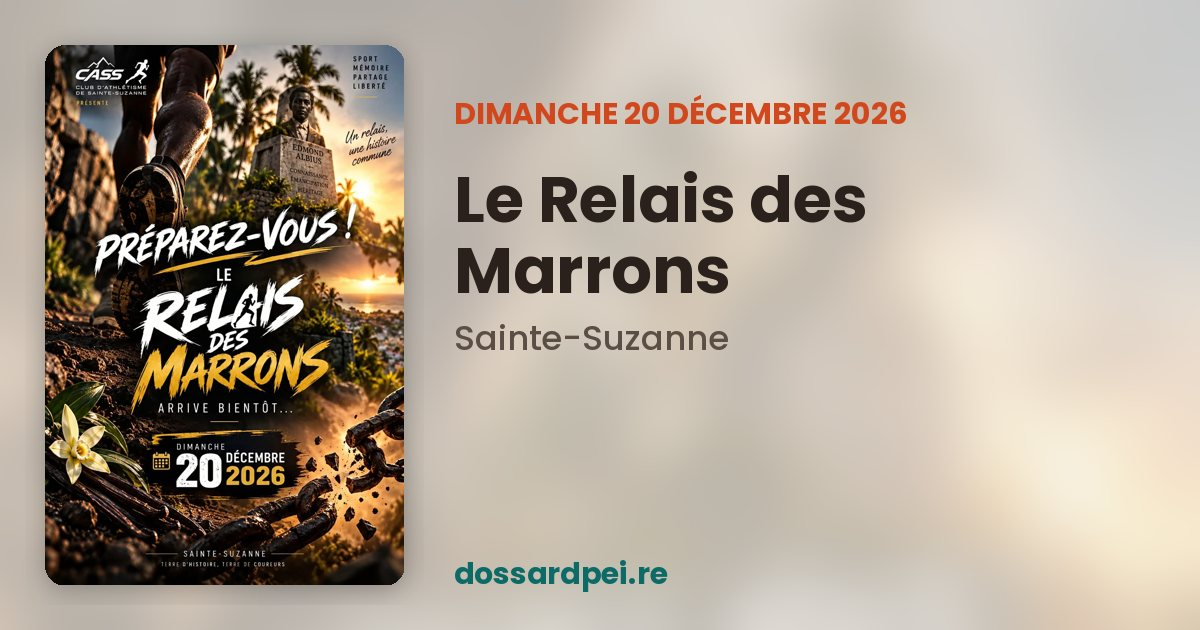
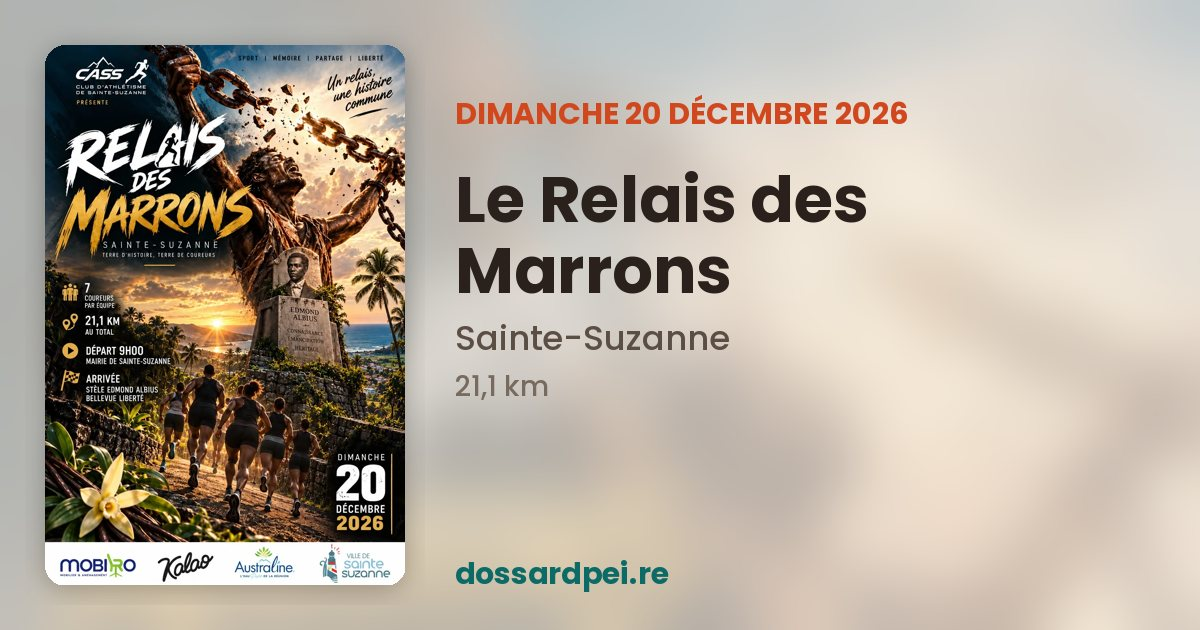
Synchro sources [pages]

diff --git a/course/relais-marrons-2026-12/index.html b/course/relais-marrons-2026-12/index.html
@@ -19,17 +19,17 @@
 <link rel="stylesheet" href="https://fonts.googleapis.com/css2?family=Instrument+Sans:wght@400;500;600;700&family=Saira+Condensed:wght@700&display=swap">
 <link rel="stylesheet" href="assets/app.4e9fba1f68.css">
 
-<title>Le Relais des Marrons 2026 · 20 décembre · Sainte-Suzanne | Dossard Péi</title><meta name="description" content="Le Relais des Marrons : relais le dimanche 20 décembre 2026 à Sainte-Suzanne, La Réunion. Horaires, tarifs, parcours et lien d&#x27;inscription."><link rel="canonical" href="https://dossardpei.re/course/relais-marrons-2026-12/"><meta property="og:type" content="website"><meta property="og:site_name" content="Dossard Péi"><meta property="og:locale" content="fr_FR"><meta property="og:title" content="Le Relais des Marrons · dimanche 20 décembre 2026"><meta property="og:description" content="Le Relais des Marrons : relais le dimanche 20 décembre 2026 à Sainte-Suzanne, La Réunion. Horaires, tarifs, parcours et lien d&#x27;inscription."><meta property="og:url" content="https://dossardpei.re/course/relais-marrons-2026-12/"><meta property="og:image" content="https://dossardpei.re/og/relais-marrons-2026-12.jpg"><meta property="og:image:width" content="1200"><meta property="og:image:height" content="630"><meta name="twitter:card" content="summary_large_image"><script type="application/ld+json">{"@context": "https://schema.org", "@type": "SportsEvent", "name": "Le Relais des Marrons", "startDate": "2026-12-20", "endDate": "2026-12-20", "eventStatus": "https://schema.org/EventScheduled", "eventAttendanceMode": "https://schema.org/OfflineEventAttendanceMode", "sport": "Relais", "url": "https://dossardpei.re/course/relais-marrons-2026-12/", "description": "Le Relais des Marrons : relais le dimanche 20 décembre 2026 à Sainte-Suzanne, La Réunion. Horaires, tarifs, parcours et lien d'inscription.", "location": {"@type": "Place", "name": "Mairie de Sainte-Suzanne", "address": {"@type": "PostalAddress", "addressLocality": "Sainte-Suzanne", "addressRegion": "La Réunion", "addressCountry": "RE"}, "geo": {"@type": "GeoCoordinates", "latitude": -20.906, "longitude": 55.607}}, "image": ["https://dossardpei.re/og/relais-marrons-2026-12.jpg", "https://dossardpei.re/posters/relais-marrons-2026-12_lg.webp"], "organizer": {"@type": "Organization", "name": "Club d'athlétisme de Sainte-Suzanne (CASS)", "url": "https://www.sportpro.re/courses/02196-relais-des-marrons/"}, "offers": {"@type": "Offer", "price": 13.0, "url": "https://www.sportpro.re/courses/02196-relais-des-marrons/", "priceCurrency": "EUR", "availability": "https://schema.org/InStock", "validFrom": "2026-11-03", "validThrough": "2026-12-16"}}</script><script>if(!/^#/.test(location.hash))history.replaceState(null,"",location.pathname+"#c-relais-marrons-2026-12");</script>
+<title>Le Relais des Marrons 2026 · 20 décembre · Sainte-Suzanne | Dossard Péi</title><meta name="description" content="Le Relais des Marrons : relais le dimanche 20 décembre 2026 à Sainte-Suzanne, La Réunion. 21,1 km. Horaires, tarifs, parcours et lien d&#x27;inscription."><link rel="canonical" href="https://dossardpei.re/course/relais-marrons-2026-12/"><meta property="og:type" content="website"><meta property="og:site_name" content="Dossard Péi"><meta property="og:locale" content="fr_FR"><meta property="og:title" content="Le Relais des Marrons · dimanche 20 décembre 2026"><meta property="og:description" content="Le Relais des Marrons : relais le dimanche 20 décembre 2026 à Sainte-Suzanne, La Réunion. 21,1 km. Horaires, tarifs, parcours et lien d&#x27;inscription."><meta property="og:url" content="https://dossardpei.re/course/relais-marrons-2026-12/"><meta property="og:image" content="https://dossardpei.re/og/relais-marrons-2026-12.jpg"><meta property="og:image:width" content="1200"><meta property="og:image:height" content="630"><meta name="twitter:card" content="summary_large_image"><script type="application/ld+json">{"@context": "https://schema.org", "@type": "SportsEvent", "name": "Le Relais des Marrons", "startDate": "2026-12-20", "endDate": "2026-12-20", "eventStatus": "https://schema.org/EventScheduled", "eventAttendanceMode": "https://schema.org/OfflineEventAttendanceMode", "sport": "Relais", "url": "https://dossardpei.re/course/relais-marrons-2026-12/", "description": "Le Relais des Marrons : relais le dimanche 20 décembre 2026 à Sainte-Suzanne, La Réunion. 21,1 km. Horaires, tarifs, parcours et lien d'inscription.", "location": {"@type": "Place", "name": "Mairie de Sainte-Suzanne", "address": {"@type": "PostalAddress", "addressLocality": "Sainte-Suzanne", "addressRegion": "La Réunion", "addressCountry": "RE"}, "geo": {"@type": "GeoCoordinates", "latitude": -20.906, "longitude": 55.607}}, "image": ["https://dossardpei.re/og/relais-marrons-2026-12.jpg", "https://dossardpei.re/posters/relais-marrons-2026-12_lg.webp"], "organizer": {"@type": "Organization", "name": "Club d'athlétisme de Sainte-Suzanne (CASS)", "url": "https://www.sportpro.re/courses/02196-relais-des-marrons/"}, "offers": {"@type": "Offer", "price": 13.0, "url": "https://www.sportpro.re/courses/02196-relais-des-marrons/", "priceCurrency": "EUR", "availability": "https://schema.org/InStock", "validFrom": "2026-11-03", "validThrough": "2026-12-16"}}</script><script>if(!/^#/.test(location.hash))history.replaceState(null,"",location.pathname+"#c-relais-marrons-2026-12");</script>
 <noscript><main><article class="card">
-<div><img class="poster" src="/posters/relais-marrons-2026-12_lg.webp" alt="Affiche : Le Relais des Marrons" width="1100" height="1651"></div>
+<div><img class="poster" src="/posters/relais-marrons-2026-12_lg.webp" alt="Affiche : Le Relais des Marrons" width="1024" height="1536"></div>
 <div>
 <p class="when">dimanche 20 décembre 2026</p>
 <h1>Le Relais des Marrons</h1>
 <p class="where">Sainte-Suzanne · Mairie de Sainte-Suzanne · organisé par Club d&#x27;athlétisme de Sainte-Suzanne (CASS)</p>
-<ul class="tags"><li>Relais</li><li class=st>Inscriptions jusqu&#x27;au 16 décembre</li></ul>
+<ul class="tags"><li>Relais</li><li>21,1 km</li><li class=st>Inscriptions jusqu&#x27;au 16 décembre</li></ul>
 <div class="cta"><a class="btn main" href="https://www.sportpro.re/courses/02196-relais-des-marrons/" rel="noopener" data-goatcounter-click="inscription/relais-marrons-2026-12" data-goatcounter-title="Clic S’inscrire (page course)">S’inscrire</a><a class="btn map" href="/#c-relais-marrons-2026-12">Voir sur la carte →</a></div>
-<div class="tbl"><table><thead><tr><th>Épreuve</th><th>Dist.</th><th>D+</th><th>Type</th><th>Départ</th><th>Tarif</th></tr></thead><tbody><tr><td>Relais des Marrons<div class=note>Équipes de 7 (à partir de minime), 13 € par relayeur, soit 91 € par équipe. Arrivée à la stèle Edmond Albius. Dossards le jour même, de 6h30 à 8h00, à la mairie de Sainte-Suzanne.</div></td><td class=n>–</td><td class=n>–</td><td>Relais</td><td class=n>09h00</td><td>13 €</td></tr></tbody></table></div>
-<p class="src">Informations reprises des sources officielles, à vérifier auprès de l’organisateur avant de vous inscrire. · <a href="https://www.sportpro.re/courses/02196-relais-des-marrons/" rel="noopener">Fiche source</a> · <a href="/#contact-relais-marrons-2026-12">Signaler une erreur</a></p>
+<div class="tbl"><table><thead><tr><th>Épreuve</th><th>Dist.</th><th>D+</th><th>Type</th><th>Départ</th><th>Tarif</th></tr></thead><tbody><tr><td>Relais des Marrons<div class=note>Équipes de 7 (à partir de minime), 13 € par relayeur, soit 91 € par équipe. Arrivée à la stèle Edmond Albius. Dossards le jour même, de 6h30 à 8h00, à la mairie de Sainte-Suzanne.</div></td><td class=n>21,1 km</td><td class=n>–</td><td>Relais</td><td class=n>09h00</td><td>13 €</td></tr></tbody></table></div>
+<p class="src">Informations reprises des sources officielles, à vérifier auprès de l’organisateur avant de vous inscrire. · <a href="https://www.sportpro.re/courses/02196-relais-des-marrons/" rel="noopener">Fiche source</a> · <a href="https://www.sportpro.re/res/images/Affiches/relais_marrons_affiche_2026.jpeg" rel="noopener">Affiche</a> · <a href="/#contact-relais-marrons-2026-12">Signaler une erreur</a></p>
 </div></article><div class="rels"><section class="rel"><h2>Le même week-end</h2><ul><li><a href="/course/foulees-verval-2026-12/"><b>Les Foulées du Verval</b><span>19 décembre · Saint-Louis · 10 km</span></a></li><li><a href="/course/pace/"><b>The Pace of Mountain</b><span>19 décembre · Salazie · 71 km (3900 m D+), 70 km (3165 m D+), 37 km (1900 m D+)</span></a></li><li><a href="/course/trail-urbain-letchis-2026-12/"><b>Trail Urbain des Letchis</b><span>19 décembre · Saint-Benoît · 14 km (132 m D+)</span></a></li><li><a href="/course/trophee-champions-route-finale-2026-12/"><b>Trophée des champions sur route – Finale</b><span>19 décembre · Sainte-Marie · 15 km (115 m D+), 10 km (71 m D+), 5 km (36 m D+)</span></a></li><li><a href="/course/charrette/"><b>Trail Charrette</b><span>20 décembre · Saint-Paul · 22 km (850 m D+), 15 km (850 m D+), 15 km (200 m D+)</span></a></li><li><a href="/course/foulees-cite-volcan-2026-12/"><b>Les Foulées de la Cité du Volcan</b><span>20 décembre · Le Tampon · 10 km</span></a></li></ul></section><section class="rel"><h2>Aussi à Sainte-Suzanne</h2><ul><li><a href="/course/niagara/"><b>Foulées Nature Niagara</b><span>29 novembre · Sainte-Suzanne · 25 km</span></a></li></ul></section></div></main></noscript>
 <div class="wrap">
   <header class="top" id="topbar">

diff --git a/course/charrette/index.html b/course/charrette/index.html
@@ -30,7 +30,7 @@
 <div class="cta"><a class="btn main" href="https://www.sportpro.re/courses/02167-trail-charrette-/" rel="noopener" data-goatcounter-click="inscription/charrette" data-goatcounter-title="Clic S’inscrire (page course)">S’inscrire</a><a class="btn map" href="/#c-charrette">Carte et parcours →</a></div>
 <div class="tbl"><table><thead><tr><th>Épreuve</th><th>Dist.</th><th>D+</th><th>Type</th><th>Départ</th><th>Tarif</th></tr></thead><tbody><tr><td>Trail Charrette</td><td class=n>22 km</td><td class=n>850 m</td><td>Trail XS</td><td class=n>06h00</td><td>30 €</td></tr><tr><td>Cadets et juniors</td><td class=n>15 km</td><td class=n>850 m</td><td>Trail XXS</td><td class=n>06h30</td><td>25 €</td></tr><tr><td>Rando Charrette</td><td class=n>15 km</td><td class=n>200 m</td><td>Rando / marche</td><td class=n>06h30</td><td>25 €</td></tr><tr><td>Course Marmays 2012-2022</td><td class=n>–</td><td class=n>–</td><td>Jeunes</td><td class=n>09h30</td><td>Gratuit</td></tr></tbody></table></div>
 <p class="src">Informations reprises des sources officielles, à vérifier auprès de l’organisateur avant de vous inscrire. · <a href="https://www.sportpro.re/courses/02167-trail-charrette-/" rel="noopener">Fiche source</a> · <a href="https://www.sportpro.re/res/.thumbs/images/Affiches/Trail_Charrette_Affiche_2026.650.jpeg" rel="noopener">Affiche</a> · <a href="/#contact-charrette">Signaler une erreur</a></p>
-</div></article><div class="rels"><section class="rel"><h2>Le même week-end</h2><ul><li><a href="/course/foulees-verval-2026-12/"><b>Les Foulées du Verval</b><span>19 décembre · Saint-Louis · 10 km</span></a></li><li><a href="/course/pace/"><b>The Pace of Mountain</b><span>19 décembre · Salazie · 71 km (3900 m D+), 70 km (3165 m D+), 37 km (1900 m D+)</span></a></li><li><a href="/course/trail-urbain-letchis-2026-12/"><b>Trail Urbain des Letchis</b><span>19 décembre · Saint-Benoît · 14 km (132 m D+)</span></a></li><li><a href="/course/trophee-champions-route-finale-2026-12/"><b>Trophée des champions sur route – Finale</b><span>19 décembre · Sainte-Marie · 15 km (115 m D+), 10 km (71 m D+), 5 km (36 m D+)</span></a></li><li><a href="/course/foulees-cite-volcan-2026-12/"><b>Les Foulées de la Cité du Volcan</b><span>20 décembre · Le Tampon · 10 km</span></a></li><li><a href="/course/relais-marrons-2026-12/"><b>Le Relais des Marrons</b><span>20 décembre · Sainte-Suzanne</span></a></li></ul></section><section class="rel"><h2>Aussi à Saint-Paul</h2><ul><li><a href="/course/tropica-dingue-2026-11/"><b>Tropica&#x27;Dingue</b><span>21 novembre · Saint-Paul · 8 km</span></a></li><li><a href="/course/villele/"><b>Trail de Villèle</b><span>29 novembre · Saint-Paul · 25 km (750 m D+), 10 km</span></a></li><li><a href="/course/ti-bwa/"><b>Kours Ti Bwa</b><span>6 décembre · Saint-Paul · 12 km (286 m D+), 6 km</span></a></li><li><a href="/course/relais-trail-vieux-saint-paul-2026-12/"><b>Relais Trail le Vieux Saint-Paul</b><span>13 décembre · Saint-Paul · 18,5 km (1000 m D+)</span></a></li><li><a href="/course/eden-rox-challenge-2027-03/"><b>Eden Rox Challenge</b><span>20 mars · Saint-Paul · 8 km, 4 km</span></a></li><li><a href="/course/gto-2027-07/"><b>Grand Trail de l&#x27;Ouest (GTO)</b><span>2 juillet · Saint-Paul · 85 km (4000 m D+), 50 km (1900 m D+), 20 km (800 m D+)</span></a></li></ul></section></div></main></noscript>
+</div></article><div class="rels"><section class="rel"><h2>Le même week-end</h2><ul><li><a href="/course/foulees-verval-2026-12/"><b>Les Foulées du Verval</b><span>19 décembre · Saint-Louis · 10 km</span></a></li><li><a href="/course/pace/"><b>The Pace of Mountain</b><span>19 décembre · Salazie · 71 km (3900 m D+), 70 km (3165 m D+), 37 km (1900 m D+)</span></a></li><li><a href="/course/trail-urbain-letchis-2026-12/"><b>Trail Urbain des Letchis</b><span>19 décembre · Saint-Benoît · 14 km (132 m D+)</span></a></li><li><a href="/course/trophee-champions-route-finale-2026-12/"><b>Trophée des champions sur route – Finale</b><span>19 décembre · Sainte-Marie · 15 km (115 m D+), 10 km (71 m D+), 5 km (36 m D+)</span></a></li><li><a href="/course/foulees-cite-volcan-2026-12/"><b>Les Foulées de la Cité du Volcan</b><span>20 décembre · Le Tampon · 10 km</span></a></li><li><a href="/course/relais-marrons-2026-12/"><b>Le Relais des Marrons</b><span>20 décembre · Sainte-Suzanne · 21,1 km</span></a></li></ul></section><section class="rel"><h2>Aussi à Saint-Paul</h2><ul><li><a href="/course/tropica-dingue-2026-11/"><b>Tropica&#x27;Dingue</b><span>21 novembre · Saint-Paul · 8 km</span></a></li><li><a href="/course/villele/"><b>Trail de Villèle</b><span>29 novembre · Saint-Paul · 25 km (750 m D+), 10 km</span></a></li><li><a href="/course/ti-bwa/"><b>Kours Ti Bwa</b><span>6 décembre · Saint-Paul · 12 km (286 m D+), 6 km</span></a></li><li><a href="/course/relais-trail-vieux-saint-paul-2026-12/"><b>Relais Trail le Vieux Saint-Paul</b><span>13 décembre · Saint-Paul · 18,5 km (1000 m D+)</span></a></li><li><a href="/course/eden-rox-challenge-2027-03/"><b>Eden Rox Challenge</b><span>20 mars · Saint-Paul · 8 km, 4 km</span></a></li><li><a href="/course/gto-2027-07/"><b>Grand Trail de l&#x27;Ouest (GTO)</b><span>2 juillet · Saint-Paul · 85 km (4000 m D+), 50 km (1900 m D+), 20 km (800 m D+)</span></a></li></ul></section></div></main></noscript>
 <div class="wrap">
   <header class="top" id="topbar">
     <a class="brand" href="#" id="minibrand" aria-label="Dossard Péi, accueil"><svg class="logo" viewBox="0 0 64 64" role="img" aria-label="Logo Dossard Péi : dossard 974"><g transform="rotate(-6 32 32)"><rect x="5" y="10" width="54" height="44" rx="6" fill="#fff" stroke="#1d2523" stroke-width="3"/><path d="M6.5 22V16a4.5 4.5 0 0 1 4.5-4.5h42a4.5 4.5 0 0 1 4.5 4.5v6z" fill="#1d4f9c"/><g fill="#ffd400"><path d="M32 17 9.5 11.5h5zM32 17 21.6 11.5h4zM32 17 30.2 11.5h3.6zM32 17 38.4 11.5h4zM32 17 49.5 11.5h5z"/></g><path d="M24 22h16L32 16z" fill="#e3242b"/><circle cx="11.5" cy="27" r="2" fill="#1d2523"/><circle cx="52.5" cy="27" r="2" fill="#1d2523"/><circle cx="11.5" cy="48.5" r="2" fill="#1d2523"/><circle cx="52.5" cy="48.5" r="2" fill="#1d2523"/><text x="32" y="47.5" text-anchor="middle" font-family="Arial Narrow,Arial,sans-serif" font-weight="800" font-size="22" fill="#1d2523" letter-spacing="-.5">974</text></g></svg><span class="bname">Dossard Péi</span></a>

diff --git a/course/trail-urbain-letchis-2026-12/index.html b/course/trail-urbain-letchis-2026-12/index.html
@@ -30,7 +30,7 @@
 <div class="cta"><a class="btn main" href="https://www.sportpro.re/courses/02186-trail-urbain-des-letchis/" rel="noopener" data-goatcounter-click="inscription/trail-urbain-letchis-2026-12" data-goatcounter-title="Clic S’inscrire (page course)">S’inscrire</a><a class="btn map" href="/#c-trail-urbain-letchis-2026-12">Carte et parcours →</a></div>
 <div class="tbl"><table><thead><tr><th>Épreuve</th><th>Dist.</th><th>D+</th><th>Type</th><th>Départ</th><th>Tarif</th></tr></thead><tbody><tr><td>14 km<div class=note>À partir de la catégorie Cadet (2011 et avant) ; D+ mesuré sur le tracé de l&#x27;organisateur</div></td><td class=n>14 km</td><td class=n>132 m</td><td>Trail urbain</td><td class=n>16h00</td><td>20 €</td></tr></tbody></table></div>
 <p class="src">Informations reprises des sources officielles, à vérifier auprès de l’organisateur avant de vous inscrire. · <a href="https://www.sportpro.re/courses/02186-trail-urbain-des-letchis/" rel="noopener">Fiche source</a> · <a href="https://www.sportpro.re/res/images/Affiches/Trail_Urbain_Des_letchis_Affiche_2026_v2.jpeg" rel="noopener">Affiche</a> · <a href="/#contact-trail-urbain-letchis-2026-12">Signaler une erreur</a></p>
-</div></article><div class="rels"><section class="rel"><h2>Le même week-end</h2><ul><li><a href="/course/foulees-verval-2026-12/"><b>Les Foulées du Verval</b><span>19 décembre · Saint-Louis · 10 km</span></a></li><li><a href="/course/pace/"><b>The Pace of Mountain</b><span>19 décembre · Salazie · 71 km (3900 m D+), 70 km (3165 m D+), 37 km (1900 m D+)</span></a></li><li><a href="/course/trophee-champions-route-finale-2026-12/"><b>Trophée des champions sur route – Finale</b><span>19 décembre · Sainte-Marie · 15 km (115 m D+), 10 km (71 m D+), 5 km (36 m D+)</span></a></li><li><a href="/course/charrette/"><b>Trail Charrette</b><span>20 décembre · Saint-Paul · 22 km (850 m D+), 15 km (850 m D+), 15 km (200 m D+)</span></a></li><li><a href="/course/foulees-cite-volcan-2026-12/"><b>Les Foulées de la Cité du Volcan</b><span>20 décembre · Le Tampon · 10 km</span></a></li><li><a href="/course/relais-marrons-2026-12/"><b>Le Relais des Marrons</b><span>20 décembre · Sainte-Suzanne</span></a></li></ul></section><section class="rel"><h2>Aussi à Saint-Benoît</h2><ul><li><a href="/course/marathon-relais-sb/"><b>Marathon Relais de Saint-Benoît</b><span>11 novembre · Saint-Benoît · 42,2 km</span></a></li><li><a href="/course/course-inclusive-maladies-rares-2026-11/"><b>Course inclusive des maladies rares</b><span>29 novembre · Saint-Benoît · 3 km</span></a></li><li><a href="/course/christmas-run/"><b>Christmas Run</b><span>12 décembre · Saint-Benoît · 5 km</span></a></li><li><a href="/course/sainte-anne/"><b>Trail Nature Sainte-Anne</b><span>13 décembre · Saint-Benoît · 24 km (490 m D+), 12 km, 12 km (245 m D+), 9 km</span></a></li><li><a href="/course/cfg/"><b>Les Foulées du CFG</b><span>30 janvier · Saint-Benoît · 10 km</span></a></li></ul></section></div></main></noscript>
+</div></article><div class="rels"><section class="rel"><h2>Le même week-end</h2><ul><li><a href="/course/foulees-verval-2026-12/"><b>Les Foulées du Verval</b><span>19 décembre · Saint-Louis · 10 km</span></a></li><li><a href="/course/pace/"><b>The Pace of Mountain</b><span>19 décembre · Salazie · 71 km (3900 m D+), 70 km (3165 m D+), 37 km (1900 m D+)</span></a></li><li><a href="/course/trophee-champions-route-finale-2026-12/"><b>Trophée des champions sur route – Finale</b><span>19 décembre · Sainte-Marie · 15 km (115 m D+), 10 km (71 m D+), 5 km (36 m D+)</span></a></li><li><a href="/course/charrette/"><b>Trail Charrette</b><span>20 décembre · Saint-Paul · 22 km (850 m D+), 15 km (850 m D+), 15 km (200 m D+)</span></a></li><li><a href="/course/foulees-cite-volcan-2026-12/"><b>Les Foulées de la Cité du Volcan</b><span>20 décembre · Le Tampon · 10 km</span></a></li><li><a href="/course/relais-marrons-2026-12/"><b>Le Relais des Marrons</b><span>20 décembre · Sainte-Suzanne · 21,1 km</span></a></li></ul></section><section class="rel"><h2>Aussi à Saint-Benoît</h2><ul><li><a href="/course/marathon-relais-sb/"><b>Marathon Relais de Saint-Benoît</b><span>11 novembre · Saint-Benoît · 42,2 km</span></a></li><li><a href="/course/course-inclusive-maladies-rares-2026-11/"><b>Course inclusive des maladies rares</b><span>29 novembre · Saint-Benoît · 3 km</span></a></li><li><a href="/course/christmas-run/"><b>Christmas Run</b><span>12 décembre · Saint-Benoît · 5 km</span></a></li><li><a href="/course/sainte-anne/"><b>Trail Nature Sainte-Anne</b><span>13 décembre · Saint-Benoît · 24 km (490 m D+), 12 km, 12 km (245 m D+), 9 km</span></a></li><li><a href="/course/cfg/"><b>Les Foulées du CFG</b><span>30 janvier · Saint-Benoît · 10 km</span></a></li></ul></section></div></main></noscript>
 <div class="wrap">
   <header class="top" id="topbar">
     <a class="brand" href="#" id="minibrand" aria-label="Dossard Péi, accueil"><svg class="logo" viewBox="0 0 64 64" role="img" aria-label="Logo Dossard Péi : dossard 974"><g transform="rotate(-6 32 32)"><rect x="5" y="10" width="54" height="44" rx="6" fill="#fff" stroke="#1d2523" stroke-width="3"/><path d="M6.5 22V16a4.5 4.5 0 0 1 4.5-4.5h42a4.5 4.5 0 0 1 4.5 4.5v6z" fill="#1d4f9c"/><g fill="#ffd400"><path d="M32 17 9.5 11.5h5zM32 17 21.6 11.5h4zM32 17 30.2 11.5h3.6zM32 17 38.4 11.5h4zM32 17 49.5 11.5h5z"/></g><path d="M24 22h16L32 16z" fill="#e3242b"/><circle cx="11.5" cy="27" r="2" fill="#1d2523"/><circle cx="52.5" cy="27" r="2" fill="#1d2523"/><circle cx="11.5" cy="48.5" r="2" fill="#1d2523"/><circle cx="52.5" cy="48.5" r="2" fill="#1d2523"/><text x="32" y="47.5" text-anchor="middle" font-family="Arial Narrow,Arial,sans-serif" font-weight="800" font-size="22" fill="#1d2523" letter-spacing="-.5">974</text></g></svg><span class="bname">Dossard Péi</span></a>

diff --git a/course/foulees-cite-volcan-2026-12/index.html b/course/foulees-cite-volcan-2026-12/index.html
@@ -30,7 +30,7 @@
 <div class="cta"><a class="btn main" href="https://in.njuko.com/les-foulees-de-la-cite-du-volcan1786614431476" rel="noopener" data-goatcounter-click="inscription/foulees-cite-volcan-2026-12" data-goatcounter-title="Clic S’inscrire (page course)">S’inscrire</a><a class="btn map" href="/#c-foulees-cite-volcan-2026-12">Carte et parcours →</a></div>
 <div class="tbl"><table><thead><tr><th>Épreuve</th><th>Dist.</th><th>D+</th><th>Type</th><th>Départ</th><th>Tarif</th></tr></thead><tbody><tr><td>Course</td><td class=n>10 km</td><td class=n>–</td><td>Route</td><td class=n>09h00</td><td>20 €</td></tr></tbody></table></div>
 <p class="src">Informations reprises des sources officielles, à vérifier auprès de l’organisateur avant de vous inscrire. · <a href="https://chronorun974.re/les-foulees-de-la-cite-du-volcan/" rel="noopener">Fiche source</a> · <a href="http://www.aajm.re" rel="noopener">Site de la course</a> · <a href="https://werun.world/wp-content/uploads/2026/07/Affiche-Foulees-de-la-Cite-du-Volcan-2026.jpg" rel="noopener">Affiche</a> · <a href="/#contact-foulees-cite-volcan-2026-12">Signaler une erreur</a></p>
-</div></article><div class="rels"><section class="rel"><h2>Le même week-end</h2><ul><li><a href="/course/foulees-verval-2026-12/"><b>Les Foulées du Verval</b><span>19 décembre · Saint-Louis · 10 km</span></a></li><li><a href="/course/pace/"><b>The Pace of Mountain</b><span>19 décembre · Salazie · 71 km (3900 m D+), 70 km (3165 m D+), 37 km (1900 m D+)</span></a></li><li><a href="/course/trail-urbain-letchis-2026-12/"><b>Trail Urbain des Letchis</b><span>19 décembre · Saint-Benoît · 14 km (132 m D+)</span></a></li><li><a href="/course/trophee-champions-route-finale-2026-12/"><b>Trophée des champions sur route – Finale</b><span>19 décembre · Sainte-Marie · 15 km (115 m D+), 10 km (71 m D+), 5 km (36 m D+)</span></a></li><li><a href="/course/charrette/"><b>Trail Charrette</b><span>20 décembre · Saint-Paul · 22 km (850 m D+), 15 km (850 m D+), 15 km (200 m D+)</span></a></li><li><a href="/course/relais-marrons-2026-12/"><b>Le Relais des Marrons</b><span>20 décembre · Sainte-Suzanne</span></a></li></ul></section><section class="rel"><h2>Aussi à Le Tampon</h2><ul><li><a href="/course/route-lait/"><b>La Route du Lait</b><span>7 novembre · Le Tampon · 10 km</span></a></li><li><a href="/course/championnat-trail-trans-volcano-2027-01/"><b>Trails du Volcan : Tangue et Transvolcano</b><span>23 janvier · Le Tampon · 67 km (1850 m D+), 40 km (1240 m D+), 22 km (800 m D+)</span></a></li><li><a href="/course/volcarox-2027-01/"><b>VolcaroX</b><span>30 janvier · Le Tampon · 8 km, 4 km</span></a></li><li><a href="/course/trail-grand-bassin-2027-06/"><b>Trail Grand Bassin Mollaret</b><span>19 juin · Le Tampon · 22 km (1170 m D+), 10 km (750 m D+)</span></a></li></ul></section></div></main></noscript>
+</div></article><div class="rels"><section class="rel"><h2>Le même week-end</h2><ul><li><a href="/course/foulees-verval-2026-12/"><b>Les Foulées du Verval</b><span>19 décembre · Saint-Louis · 10 km</span></a></li><li><a href="/course/pace/"><b>The Pace of Mountain</b><span>19 décembre · Salazie · 71 km (3900 m D+), 70 km (3165 m D+), 37 km (1900 m D+)</span></a></li><li><a href="/course/trail-urbain-letchis-2026-12/"><b>Trail Urbain des Letchis</b><span>19 décembre · Saint-Benoît · 14 km (132 m D+)</span></a></li><li><a href="/course/trophee-champions-route-finale-2026-12/"><b>Trophée des champions sur route – Finale</b><span>19 décembre · Sainte-Marie · 15 km (115 m D+), 10 km (71 m D+), 5 km (36 m D+)</span></a></li><li><a href="/course/charrette/"><b>Trail Charrette</b><span>20 décembre · Saint-Paul · 22 km (850 m D+), 15 km (850 m D+), 15 km (200 m D+)</span></a></li><li><a href="/course/relais-marrons-2026-12/"><b>Le Relais des Marrons</b><span>20 décembre · Sainte-Suzanne · 21,1 km</span></a></li></ul></section><section class="rel"><h2>Aussi à Le Tampon</h2><ul><li><a href="/course/route-lait/"><b>La Route du Lait</b><span>7 novembre · Le Tampon · 10 km</span></a></li><li><a href="/course/championnat-trail-trans-volcano-2027-01/"><b>Trails du Volcan : Tangue et Transvolcano</b><span>23 janvier · Le Tampon · 67 km (1850 m D+), 40 km (1240 m D+), 22 km (800 m D+)</span></a></li><li><a href="/course/volcarox-2027-01/"><b>VolcaroX</b><span>30 janvier · Le Tampon · 8 km, 4 km</span></a></li><li><a href="/course/trail-grand-bassin-2027-06/"><b>Trail Grand Bassin Mollaret</b><span>19 juin · Le Tampon · 22 km (1170 m D+), 10 km (750 m D+)</span></a></li></ul></section></div></main></noscript>
 <div class="wrap">
   <header class="top" id="topbar">
     <a class="brand" href="#" id="minibrand" aria-label="Dossard Péi, accueil"><svg class="logo" viewBox="0 0 64 64" role="img" aria-label="Logo Dossard Péi : dossard 974"><g transform="rotate(-6 32 32)"><rect x="5" y="10" width="54" height="44" rx="6" fill="#fff" stroke="#1d2523" stroke-width="3"/><path d="M6.5 22V16a4.5 4.5 0 0 1 4.5-4.5h42a4.5 4.5 0 0 1 4.5 4.5v6z" fill="#1d4f9c"/><g fill="#ffd400"><path d="M32 17 9.5 11.5h5zM32 17 21.6 11.5h4zM32 17 30.2 11.5h3.6zM32 17 38.4 11.5h4zM32 17 49.5 11.5h5z"/></g><path d="M24 22h16L32 16z" fill="#e3242b"/><circle cx="11.5" cy="27" r="2" fill="#1d2523"/><circle cx="52.5" cy="27" r="2" fill="#1d2523"/><circle cx="11.5" cy="48.5" r="2" fill="#1d2523"/><circle cx="52.5" cy="48.5" r="2" fill="#1d2523"/><text x="32" y="47.5" text-anchor="middle" font-family="Arial Narrow,Arial,sans-serif" font-weight="800" font-size="22" fill="#1d2523" letter-spacing="-.5">974</text></g></svg><span class="bname">Dossard Péi</span></a>

diff --git a/course/pace/index.html b/course/pace/index.html
@@ -30,7 +30,7 @@
 <div class="cta"><a class="btn main" href="https://www.sportpro.re/courses/02113-the-pace-of-mountain-/" rel="noopener" data-goatcounter-click="inscription/pace" data-goatcounter-title="Clic S’inscrire (page course)">S’inscrire</a><a class="btn map" href="/#c-pace">Carte et parcours →</a></div>
 <div class="tbl"><table><thead><tr><th>Épreuve</th><th>Dist.</th><th>D+</th><th>Type</th><th>Départ</th><th>Tarif</th></tr></thead><tbody><tr><td>Solo 70 km<div class=note>Départ Sainte-Marie</div></td><td class=n>71 km</td><td class=n>3900 m</td><td>Trail M</td><td class=n>00h01</td><td>80 €</td></tr><tr><td>Relais 70 km</td><td class=n>70 km</td><td class=n>3165 m</td><td>Trail M</td><td class=n>03h00</td><td>55 €</td></tr><tr><td>Semi 36 km</td><td class=n>37 km</td><td class=n>1900 m</td><td>Trail S</td><td class=n>03h00</td><td>60 €</td></tr></tbody></table></div>
 <p class="src">Informations reprises des sources officielles, à vérifier auprès de l’organisateur avant de vous inscrire. · <a href="https://www.sportpro.re/courses/02113-the-pace-of-mountain-/" rel="noopener">Fiche source</a> · <a href="https://www.sportpro.re/res/.thumbs/images/Affiches/The_pace_of_the_mountain_Affiche.650.png" rel="noopener">Affiche</a> · <a href="/#contact-pace">Signaler une erreur</a></p>
-</div></article><div class="rels"><section class="rel"><h2>Le même week-end</h2><ul><li><a href="/course/foulees-verval-2026-12/"><b>Les Foulées du Verval</b><span>19 décembre · Saint-Louis · 10 km</span></a></li><li><a href="/course/trail-urbain-letchis-2026-12/"><b>Trail Urbain des Letchis</b><span>19 décembre · Saint-Benoît · 14 km (132 m D+)</span></a></li><li><a href="/course/trophee-champions-route-finale-2026-12/"><b>Trophée des champions sur route – Finale</b><span>19 décembre · Sainte-Marie · 15 km (115 m D+), 10 km (71 m D+), 5 km (36 m D+)</span></a></li><li><a href="/course/charrette/"><b>Trail Charrette</b><span>20 décembre · Saint-Paul · 22 km (850 m D+), 15 km (850 m D+), 15 km (200 m D+)</span></a></li><li><a href="/course/foulees-cite-volcan-2026-12/"><b>Les Foulées de la Cité du Volcan</b><span>20 décembre · Le Tampon · 10 km</span></a></li><li><a href="/course/relais-marrons-2026-12/"><b>Le Relais des Marrons</b><span>20 décembre · Sainte-Suzanne</span></a></li></ul></section><section class="rel"><h2>Aussi à Salazie</h2><ul><li><a href="/course/mafate-trail-tour-2026-11/"><b>Mafate Trail Tour (MTT)</b><span>28 novembre · Salazie · 70 km (4800 m D+), 54 km (3600 m D+), 38 km (2100 m D+)</span></a></li><li><a href="/course/boucle-c-ur-est-2026-12/"><b>Boucle du Cœur de l&#x27;Est</b><span>5 décembre · Salazie · 65 km (3630 m D+), 45 km (2300 m D+)</span></a></li><li><a href="/course/maloya/"><b>Maloya Trail</b><span>12 décembre · Salazie · 12 km (556 m D+), 8 km, 2,2 km (49 m D+), 1,6 km (26 m D+)</span></a></li></ul></section></div></main></noscript>
+</div></article><div class="rels"><section class="rel"><h2>Le même week-end</h2><ul><li><a href="/course/foulees-verval-2026-12/"><b>Les Foulées du Verval</b><span>19 décembre · Saint-Louis · 10 km</span></a></li><li><a href="/course/trail-urbain-letchis-2026-12/"><b>Trail Urbain des Letchis</b><span>19 décembre · Saint-Benoît · 14 km (132 m D+)</span></a></li><li><a href="/course/trophee-champions-route-finale-2026-12/"><b>Trophée des champions sur route – Finale</b><span>19 décembre · Sainte-Marie · 15 km (115 m D+), 10 km (71 m D+), 5 km (36 m D+)</span></a></li><li><a href="/course/charrette/"><b>Trail Charrette</b><span>20 décembre · Saint-Paul · 22 km (850 m D+), 15 km (850 m D+), 15 km (200 m D+)</span></a></li><li><a href="/course/foulees-cite-volcan-2026-12/"><b>Les Foulées de la Cité du Volcan</b><span>20 décembre · Le Tampon · 10 km</span></a></li><li><a href="/course/relais-marrons-2026-12/"><b>Le Relais des Marrons</b><span>20 décembre · Sainte-Suzanne · 21,1 km</span></a></li></ul></section><section class="rel"><h2>Aussi à Salazie</h2><ul><li><a href="/course/mafate-trail-tour-2026-11/"><b>Mafate Trail Tour (MTT)</b><span>28 novembre · Salazie · 70 km (4800 m D+), 54 km (3600 m D+), 38 km (2100 m D+)</span></a></li><li><a href="/course/boucle-c-ur-est-2026-12/"><b>Boucle du Cœur de l&#x27;Est</b><span>5 décembre · Salazie · 65 km (3630 m D+), 45 km (2300 m D+)</span></a></li><li><a href="/course/maloya/"><b>Maloya Trail</b><span>12 décembre · Salazie · 12 km (556 m D+), 8 km, 2,2 km (49 m D+), 1,6 km (26 m D+)</span></a></li></ul></section></div></main></noscript>
 <div class="wrap">
   <header class="top" id="topbar">
     <a class="brand" href="#" id="minibrand" aria-label="Dossard Péi, accueil"><svg class="logo" viewBox="0 0 64 64" role="img" aria-label="Logo Dossard Péi : dossard 974"><g transform="rotate(-6 32 32)"><rect x="5" y="10" width="54" height="44" rx="6" fill="#fff" stroke="#1d2523" stroke-width="3"/><path d="M6.5 22V16a4.5 4.5 0 0 1 4.5-4.5h42a4.5 4.5 0 0 1 4.5 4.5v6z" fill="#1d4f9c"/><g fill="#ffd400"><path d="M32 17 9.5 11.5h5zM32 17 21.6 11.5h4zM32 17 30.2 11.5h3.6zM32 17 38.4 11.5h4zM32 17 49.5 11.5h5z"/></g><path d="M24 22h16L32 16z" fill="#e3242b"/><circle cx="11.5" cy="27" r="2" fill="#1d2523"/><circle cx="52.5" cy="27" r="2" fill="#1d2523"/><circle cx="11.5" cy="48.5" r="2" fill="#1d2523"/><circle cx="52.5" cy="48.5" r="2" fill="#1d2523"/><text x="32" y="47.5" text-anchor="middle" font-family="Arial Narrow,Arial,sans-serif" font-weight="800" font-size="22" fill="#1d2523" letter-spacing="-.5">974</text></g></svg><span class="bname">Dossard Péi</span></a>

diff --git a/course/foulees-verval-2026-12/index.html b/course/foulees-verval-2026-12/index.html
@@ -30,7 +30,7 @@
 <div class="cta"><a class="btn map" href="/#c-foulees-verval-2026-12">Voir sur la carte →</a></div>
 <div class="tbl"><table><thead><tr><th>Épreuve</th><th>Dist.</th><th>D+</th><th>Type</th><th>Départ</th><th>Tarif</th></tr></thead><tbody><tr><td>Trail 10 km</td><td class=n>10 km</td><td class=n>–</td><td>Trail</td><td class=n>06h30</td><td>Gratuit</td></tr></tbody></table></div>
 <p class="src">Informations reprises des sources officielles, à vérifier auprès de l’organisateur avant de vous inscrire. · <a href="https://www.topchrono.run/evenements/les-foulees-du-verval-2026/" rel="noopener">Fiche source</a> · <a href="https://www.topchrono.run/wp-content/uploads/2026/10/AFFICHE-Les-Foulees-Verval-2026-TLR_V7.jpg" rel="noopener">Affiche</a> · <a href="/#contact-foulees-verval-2026-12">Signaler une erreur</a></p>
-</div></article><div class="rels"><section class="rel"><h2>Le même week-end</h2><ul><li><a href="/course/pace/"><b>The Pace of Mountain</b><span>19 décembre · Salazie · 71 km (3900 m D+), 70 km (3165 m D+), 37 km (1900 m D+)</span></a></li><li><a href="/course/trail-urbain-letchis-2026-12/"><b>Trail Urbain des Letchis</b><span>19 décembre · Saint-Benoît · 14 km (132 m D+)</span></a></li><li><a href="/course/trophee-champions-route-finale-2026-12/"><b>Trophée des champions sur route – Finale</b><span>19 décembre · Sainte-Marie · 15 km (115 m D+), 10 km (71 m D+), 5 km (36 m D+)</span></a></li><li><a href="/course/charrette/"><b>Trail Charrette</b><span>20 décembre · Saint-Paul · 22 km (850 m D+), 15 km (850 m D+), 15 km (200 m D+)</span></a></li><li><a href="/course/foulees-cite-volcan-2026-12/"><b>Les Foulées de la Cité du Volcan</b><span>20 décembre · Le Tampon · 10 km</span></a></li><li><a href="/course/relais-marrons-2026-12/"><b>Le Relais des Marrons</b><span>20 décembre · Sainte-Suzanne</span></a></li></ul></section><section class="rel"><h2>Aussi à Saint-Louis</h2><ul><li><a href="/course/maczheimer/"><b>Les Foulées de la Mac&#x27;Zheimer</b><span>22 novembre · Saint-Louis · 10 km, 5 km</span></a></li><li><a href="/course/foulees-nocturnes-saint-louis-2026-12/"><b>Foulées nocturnes de Saint-Louis</b><span>12 décembre · Saint-Louis · 10 km, 5 km</span></a></li><li><a href="/course/marmailles-masters-trail-2026-12/"><b>Marmailles Masters Trail</b><span>13 décembre · Saint-Louis · 22 km (1500 m D+), 2 km</span></a></li></ul></section></div></main></noscript>
+</div></article><div class="rels"><section class="rel"><h2>Le même week-end</h2><ul><li><a href="/course/pace/"><b>The Pace of Mountain</b><span>19 décembre · Salazie · 71 km (3900 m D+), 70 km (3165 m D+), 37 km (1900 m D+)</span></a></li><li><a href="/course/trail-urbain-letchis-2026-12/"><b>Trail Urbain des Letchis</b><span>19 décembre · Saint-Benoît · 14 km (132 m D+)</span></a></li><li><a href="/course/trophee-champions-route-finale-2026-12/"><b>Trophée des champions sur route – Finale</b><span>19 décembre · Sainte-Marie · 15 km (115 m D+), 10 km (71 m D+), 5 km (36 m D+)</span></a></li><li><a href="/course/charrette/"><b>Trail Charrette</b><span>20 décembre · Saint-Paul · 22 km (850 m D+), 15 km (850 m D+), 15 km (200 m D+)</span></a></li><li><a href="/course/foulees-cite-volcan-2026-12/"><b>Les Foulées de la Cité du Volcan</b><span>20 décembre · Le Tampon · 10 km</span></a></li><li><a href="/course/relais-marrons-2026-12/"><b>Le Relais des Marrons</b><span>20 décembre · Sainte-Suzanne · 21,1 km</span></a></li></ul></section><section class="rel"><h2>Aussi à Saint-Louis</h2><ul><li><a href="/course/maczheimer/"><b>Les Foulées de la Mac&#x27;Zheimer</b><span>22 novembre · Saint-Louis · 10 km, 5 km</span></a></li><li><a href="/course/foulees-nocturnes-saint-louis-2026-12/"><b>Foulées nocturnes de Saint-Louis</b><span>12 décembre · Saint-Louis · 10 km, 5 km</span></a></li><li><a href="/course/marmailles-masters-trail-2026-12/"><b>Marmailles Masters Trail</b><span>13 décembre · Saint-Louis · 22 km (1500 m D+), 2 km</span></a></li></ul></section></div></main></noscript>
 <div class="wrap">
   <header class="top" id="topbar">
     <a class="brand" href="#" id="minibrand" aria-label="Dossard Péi, accueil"><svg class="logo" viewBox="0 0 64 64" role="img" aria-label="Logo Dossard Péi : dossard 974"><g transform="rotate(-6 32 32)"><rect x="5" y="10" width="54" height="44" rx="6" fill="#fff" stroke="#1d2523" stroke-width="3"/><path d="M6.5 22V16a4.5 4.5 0 0 1 4.5-4.5h42a4.5 4.5 0 0 1 4.5 4.5v6z" fill="#1d4f9c"/><g fill="#ffd400"><path d="M32 17 9.5 11.5h5zM32 17 21.6 11.5h4zM32 17 30.2 11.5h3.6zM32 17 38.4 11.5h4zM32 17 49.5 11.5h5z"/></g><path d="M24 22h16L32 16z" fill="#e3242b"/><circle cx="11.5" cy="27" r="2" fill="#1d2523"/><circle cx="52.5" cy="27" r="2" fill="#1d2523"/><circle cx="11.5" cy="48.5" r="2" fill="#1d2523"/><circle cx="52.5" cy="48.5" r="2" fill="#1d2523"/><text x="32" y="47.5" text-anchor="middle" font-family="Arial Narrow,Arial,sans-serif" font-weight="800" font-size="22" fill="#1d2523" letter-spacing="-.5">974</text></g></svg><span class="bname">Dossard Péi</span></a>

diff --git a/course/trophee-champions-route-finale-2026-12/index.html b/course/trophee-champions-route-finale-2026-12/index.html
@@ -30,7 +30,7 @@
 <div class="cta"><a class="btn main" href="https://utoi-inscriptions.com/evenements/finale-trophee-des-champions-sur-route-19-12-2026" rel="noopener" data-goatcounter-click="inscription/trophee-champions-route-finale-2026-12" data-goatcounter-title="Clic S’inscrire (page course)">S’inscrire</a><a class="btn map" href="/#c-trophee-champions-route-finale-2026-12">Carte et parcours →</a></div>
 <div class="tbl"><table><thead><tr><th>Épreuve</th><th>Dist.</th><th>D+</th><th>Type</th><th>Départ</th><th>Tarif</th></tr></thead><tbody><tr><td>15 km</td><td class=n>15 km</td><td class=n>115 m</td><td>Route</td><td class=n>18h00</td><td>30 €</td></tr><tr><td>10 km</td><td class=n>10 km</td><td class=n>71 m</td><td>Route</td><td class=n>18h20</td><td>25 €</td></tr><tr><td>5 km</td><td class=n>5 km</td><td class=n>36 m</td><td>Route</td><td class=n>18h30</td><td>15 €</td></tr></tbody></table></div>
 <p class="src">Informations reprises des sources officielles, à vérifier auprès de l’organisateur avant de vous inscrire. · <a href="https://utoi.re/" rel="noopener">Fiche source</a> · <a href="/#contact-trophee-champions-route-finale-2026-12">Signaler une erreur</a></p>
-</div></article><div class="rels"><section class="rel"><h2>Le même week-end</h2><ul><li><a href="/course/foulees-verval-2026-12/"><b>Les Foulées du Verval</b><span>19 décembre · Saint-Louis · 10 km</span></a></li><li><a href="/course/pace/"><b>The Pace of Mountain</b><span>19 décembre · Salazie · 71 km (3900 m D+), 70 km (3165 m D+), 37 km (1900 m D+)</span></a></li><li><a href="/course/trail-urbain-letchis-2026-12/"><b>Trail Urbain des Letchis</b><span>19 décembre · Saint-Benoît · 14 km (132 m D+)</span></a></li><li><a href="/course/charrette/"><b>Trail Charrette</b><span>20 décembre · Saint-Paul · 22 km (850 m D+), 15 km (850 m D+), 15 km (200 m D+)</span></a></li><li><a href="/course/foulees-cite-volcan-2026-12/"><b>Les Foulées de la Cité du Volcan</b><span>20 décembre · Le Tampon · 10 km</span></a></li><li><a href="/course/relais-marrons-2026-12/"><b>Le Relais des Marrons</b><span>20 décembre · Sainte-Suzanne</span></a></li></ul></section><section class="rel"><h2>Aussi à Sainte-Marie</h2><ul><li><a href="/course/trail-urbain-sainte-marie-2026-12/"><b>Trail Urbain de Sainte-Marie</b><span>12 décembre · Sainte-Marie · 15 km (192 m D+)</span></a></li></ul></section></div></main></noscript>
+</div></article><div class="rels"><section class="rel"><h2>Le même week-end</h2><ul><li><a href="/course/foulees-verval-2026-12/"><b>Les Foulées du Verval</b><span>19 décembre · Saint-Louis · 10 km</span></a></li><li><a href="/course/pace/"><b>The Pace of Mountain</b><span>19 décembre · Salazie · 71 km (3900 m D+), 70 km (3165 m D+), 37 km (1900 m D+)</span></a></li><li><a href="/course/trail-urbain-letchis-2026-12/"><b>Trail Urbain des Letchis</b><span>19 décembre · Saint-Benoît · 14 km (132 m D+)</span></a></li><li><a href="/course/charrette/"><b>Trail Charrette</b><span>20 décembre · Saint-Paul · 22 km (850 m D+), 15 km (850 m D+), 15 km (200 m D+)</span></a></li><li><a href="/course/foulees-cite-volcan-2026-12/"><b>Les Foulées de la Cité du Volcan</b><span>20 décembre · Le Tampon · 10 km</span></a></li><li><a href="/course/relais-marrons-2026-12/"><b>Le Relais des Marrons</b><span>20 décembre · Sainte-Suzanne · 21,1 km</span></a></li></ul></section><section class="rel"><h2>Aussi à Sainte-Marie</h2><ul><li><a href="/course/trail-urbain-sainte-marie-2026-12/"><b>Trail Urbain de Sainte-Marie</b><span>12 décembre · Sainte-Marie · 15 km (192 m D+)</span></a></li></ul></section></div></main></noscript>
 <div class="wrap">
   <header class="top" id="topbar">
     <a class="brand" href="#" id="minibrand" aria-label="Dossard Péi, accueil"><svg class="logo" viewBox="0 0 64 64" role="img" aria-label="Logo Dossard Péi : dossard 974"><g transform="rotate(-6 32 32)"><rect x="5" y="10" width="54" height="44" rx="6" fill="#fff" stroke="#1d2523" stroke-width="3"/><path d="M6.5 22V16a4.5 4.5 0 0 1 4.5-4.5h42a4.5 4.5 0 0 1 4.5 4.5v6z" fill="#1d4f9c"/><g fill="#ffd400"><path d="M32 17 9.5 11.5h5zM32 17 21.6 11.5h4zM32 17 30.2 11.5h3.6zM32 17 38.4 11.5h4zM32 17 49.5 11.5h5z"/></g><path d="M24 22h16L32 16z" fill="#e3242b"/><circle cx="11.5" cy="27" r="2" fill="#1d2523"/><circle cx="52.5" cy="27" r="2" fill="#1d2523"/><circle cx="11.5" cy="48.5" r="2" fill="#1d2523"/><circle cx="52.5" cy="48.5" r="2" fill="#1d2523"/><text x="32" y="47.5" text-anchor="middle" font-family="Arial Narrow,Arial,sans-serif" font-weight="800" font-size="22" fill="#1d2523" letter-spacing="-.5">974</text></g></svg><span class="bname">Dossard Péi</span></a>

diff --git a/course/niagara/index.html b/course/niagara/index.html
@@ -30,7 +30,7 @@
 <div class="cta"><a class="btn main" href="https://www.sportpro.re/courses/02103-foulees-nature-niagara/" rel="noopener" data-goatcounter-click="inscription/niagara" data-goatcounter-title="Clic S’inscrire (page course)">S’inscrire</a><a class="btn map" href="/#c-niagara">Carte et parcours →</a></div>
 <div class="tbl"><table><thead><tr><th>Épreuve</th><th>Dist.</th><th>D+</th><th>Type</th><th>Départ</th><th>Tarif</th></tr></thead><tbody><tr><td>Foulées Nature Niagara</td><td class=n>25 km</td><td class=n>–</td><td>Route</td><td class=n>06h30</td><td>34 €</td></tr></tbody></table></div>
 <p class="src">Informations reprises des sources officielles, à vérifier auprès de l’organisateur avant de vous inscrire. · <a href="https://www.sportpro.re/courses/02103-foulees-nature-niagara/" rel="noopener">Fiche source</a> · <a href="https://www.sportpro.re/res/.thumbs/images/Affiches/Foulees_Nature_Niagara_2026_affiche.438.jpeg" rel="noopener">Affiche</a> · <a href="/#contact-niagara">Signaler une erreur</a></p>
-</div></article><div class="rels"><section class="rel"><h2>Le même week-end</h2><ul><li><a href="/course/mafate-trail-tour-2026-11/"><b>Mafate Trail Tour (MTT)</b><span>28 novembre · Salazie · 70 km (4800 m D+), 54 km (3600 m D+), 38 km (2100 m D+)</span></a></li><li><a href="/course/trail-urbain-saint-pierre-2026-11/"><b>Trail Urbain de Saint-Pierre</b><span>28 novembre · Saint-Pierre · 21 km (250 m D+), 7 km (50 m D+)</span></a></li><li><a href="/course/course-inclusive-maladies-rares-2026-11/"><b>Course inclusive des maladies rares</b><span>29 novembre · Saint-Benoît · 3 km</span></a></li><li><a href="/course/possession/"><b>Les Foulées de la Possession</b><span>29 novembre · La Possession · 10 km</span></a></li><li><a href="/course/riviere-mat/"><b>Trail des Berges de la Rivière du Mât Les Bas</b><span>29 novembre · Saint-André · 17 km (159 m D+), 12 km (82 m D+)</span></a></li><li><a href="/course/villele/"><b>Trail de Villèle</b><span>29 novembre · Saint-Paul · 25 km (750 m D+), 10 km</span></a></li></ul></section><section class="rel"><h2>Aussi à Sainte-Suzanne</h2><ul><li><a href="/course/relais-marrons-2026-12/"><b>Le Relais des Marrons</b><span>20 décembre · Sainte-Suzanne</span></a></li></ul></section></div></main></noscript>
+</div></article><div class="rels"><section class="rel"><h2>Le même week-end</h2><ul><li><a href="/course/mafate-trail-tour-2026-11/"><b>Mafate Trail Tour (MTT)</b><span>28 novembre · Salazie · 70 km (4800 m D+), 54 km (3600 m D+), 38 km (2100 m D+)</span></a></li><li><a href="/course/trail-urbain-saint-pierre-2026-11/"><b>Trail Urbain de Saint-Pierre</b><span>28 novembre · Saint-Pierre · 21 km (250 m D+), 7 km (50 m D+)</span></a></li><li><a href="/course/course-inclusive-maladies-rares-2026-11/"><b>Course inclusive des maladies rares</b><span>29 novembre · Saint-Benoît · 3 km</span></a></li><li><a href="/course/possession/"><b>Les Foulées de la Possession</b><span>29 novembre · La Possession · 10 km</span></a></li><li><a href="/course/riviere-mat/"><b>Trail des Berges de la Rivière du Mât Les Bas</b><span>29 novembre · Saint-André · 17 km (159 m D+), 12 km (82 m D+)</span></a></li><li><a href="/course/villele/"><b>Trail de Villèle</b><span>29 novembre · Saint-Paul · 25 km (750 m D+), 10 km</span></a></li></ul></section><section class="rel"><h2>Aussi à Sainte-Suzanne</h2><ul><li><a href="/course/relais-marrons-2026-12/"><b>Le Relais des Marrons</b><span>20 décembre · Sainte-Suzanne · 21,1 km</span></a></li></ul></section></div></main></noscript>
 <div class="wrap">
   <header class="top" id="topbar">
     <a class="brand" href="#" id="minibrand" aria-label="Dossard Péi, accueil"><svg class="logo" viewBox="0 0 64 64" role="img" aria-label="Logo Dossard Péi : dossard 974"><g transform="rotate(-6 32 32)"><rect x="5" y="10" width="54" height="44" rx="6" fill="#fff" stroke="#1d2523" stroke-width="3"/><path d="M6.5 22V16a4.5 4.5 0 0 1 4.5-4.5h42a4.5 4.5 0 0 1 4.5 4.5v6z" fill="#1d4f9c"/><g fill="#ffd400"><path d="M32 17 9.5 11.5h5zM32 17 21.6 11.5h4zM32 17 30.2 11.5h3.6zM32 17 38.4 11.5h4zM32 17 49.5 11.5h5z"/></g><path d="M24 22h16L32 16z" fill="#e3242b"/><circle cx="11.5" cy="27" r="2" fill="#1d2523"/><circle cx="52.5" cy="27" r="2" fill="#1d2523"/><circle cx="11.5" cy="48.5" r="2" fill="#1d2523"/><circle cx="52.5" cy="48.5" r="2" fill="#1d2523"/><text x="32" y="47.5" text-anchor="middle" font-family="Arial Narrow,Arial,sans-serif" font-weight="800" font-size="22" fill="#1d2523" letter-spacing="-.5">974</text></g></svg><span class="bname">Dossard Péi</span></a>
